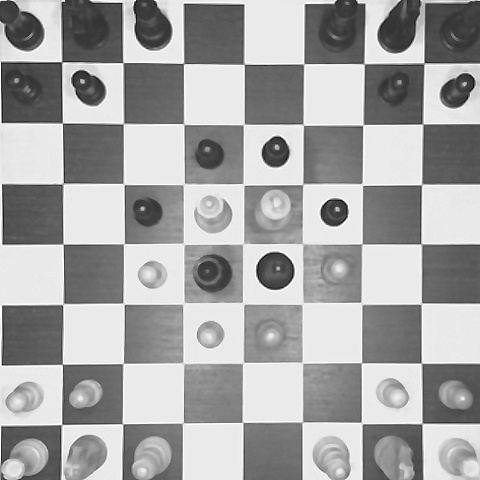
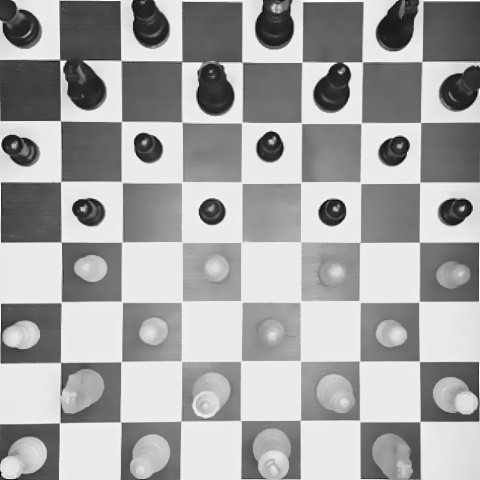
Dernier test concluant

Changed region(s): [[0.0, 0.0, 1.0, 1.0]]

diff --git a/vision/ChessCamera.py b/vision/ChessCamera.py
@@ -17,14 +17,15 @@ class ChessCamera(object):
         if RUN_ON_PI:
             self.camera = PiCamera()
             self.camera.resolution = (640,480)
+            #self.camera.exposure_mode = 'auto'
             self.camera.iso = CAMERA_ISO
+            self.camera.exposure_compensation = CAMERA_COMP
             self.camera.brightness = CAMERA_BRIGHTNESS
-            #self.camera.exposure_compensation = CAMERA_COMP
-            time.sleep(2)
-            self.camera.exposure_mode = 'off'
+            time.sleep(1)
             g = self.camera.awb_gains
             self.camera.awb_mode = 'off'
             self.camera.awb_gains = g
+            self.camera.exposure_mode = 'off'
 
         self.IMAGE_PATH = image
 
@@ -152,12 +153,13 @@ class ChessCamera(object):
 
                     masked, masked_draw = self.mask(current_square.img, edged_square.img)
                     thres = cv2.cvtColor(masked, cv2.COLOR_BGR2GRAY)
+                    height, width = thres.shape
 
                     #masked_draw = self.adjust_gamma(masked, 1)
                     #masked_draw = self.adjust_gamma(masked_draw, 2)
 
-                    #thres = self.adjust_gamma(thres, 0.5)
-                    thres = cv2.GaussianBlur(thres, (17,17), 0)
+                    #thres = self.adjust_gamma(thres, 1.5)
+                    thres = cv2.GaussianBlur(thres, (13,13), 0)
                     _, thres = cv2.threshold(thres, THRESHOLD_BINARY, 255, cv2.THRESH_BINARY)
 
                     if DEBUG and MASK_DRAW:
@@ -165,10 +167,13 @@ class ChessCamera(object):
                     if DEBUG and not MASK_DRAW:
                         cv2.imwrite("output/squares/{}.jpg".format(current_square.position), thres)
 
-                    if cv2.countNonZero(thres) > THRESHOLD_COLOR :
-                        line.append("W")
-                    else:
+                    count_white = cv2.countNonZero(thres);
+                    count_black = height * width - count_white;
+
+                    if count_black > THRESHOLD_COLOR :
                         line.append("B")
+                    else:
+                        line.append("W")
                 else:
                     line.append(".")
             board.append(line)
@@ -184,11 +189,12 @@ class ChessCamera(object):
         #img = clahe.apply(img)
 
         #img = cv2.normalize(img, img, alpha=50, beta=200, norm_type=cv2.NORM_MINMAX)
-        img = cv2.bilateralFilter(img, CANNY_BLUR, 17, 17)
+        img = cv2.GaussianBlur(img, (CANNY_BLUR,CANNY_BLUR), 0)
+        #img = cv2.bilateralFilter(img, CANNY_BLUR, 17, 17)
         #img = clahe.apply(img)
         img = cv2.filter2D(img, -1, kernel_sharpen)
         #img = cv2.GaussianBlur(img, (CANNY_BLUR,CANNY_BLUR), 0)
-        #img = cv2.bilateralFilter(img, CANNY_BLUR, 13, 13)
+        #img = cv2.bilateralFilter(img, CANNY_BLUR, 17, 17)
 
         if DEBUG : cv2.imwrite("output/gray.jpg", img)
 
@@ -215,27 +221,45 @@ class ChessCamera(object):
                 max_perimetre = perimetre
                 max_contour = c
 
-        img = cv2.cvtColor(img, cv2.COLOR_GRAY2BGR)
+        img_bgr = cv2.cvtColor(img, cv2.COLOR_GRAY2BGR)
 
-        mask = np.zeros(edges.shape)
+        mask = np.zeros(edges.shape, dtype=np.uint8)
+        #mask = np.ones() * 255
         hull = cv2.convexHull(max_contour)
         cv2.fillConvexPoly(mask, hull, (255))
 
-        #-- Smooth mask, then blur it --------------------------------------------------------
+        img = cv2.cvtColor(img_bgr, cv2.COLOR_BGR2GRAY)
+        # load background (could be an image too)
+        bk = np.full(img.shape, 255, dtype=np.uint8)  # white bk
+        # get masked foreground
+        fg_masked = cv2.bitwise_and(img, img, mask=mask)
+        # get masked background, mask must be inverted
+        mask = cv2.bitwise_not(mask)
         mask = cv2.dilate(mask, None, iterations=MASK_DILATE_ITER)
         mask = cv2.erode(mask, None, iterations=MASK_ERODE_ITER)
         mask = cv2.GaussianBlur(mask, (MASK_BLUR, MASK_BLUR), 0)
-        mask_stack = np.dstack([mask]*3)  # Create 3-channel alpha mask
+        bk_masked = cv2.bitwise_and(bk, bk, mask=mask)
+        # combine masked foreground and masked background
+        masked = cv2.bitwise_or(fg_masked, bk_masked)
+
+        #-- Smooth mask, then blur it --------------------------------------------------------
+        #mask = cv2.dilate(mask, None, iterations=MASK_DILATE_ITER)
+        #mask = cv2.erode(mask, None, iterations=MASK_ERODE_ITER)
+        #mask = cv2.GaussianBlur(mask, (MASK_BLUR, MASK_BLUR), 0)
+        #mask_stack = np.dstack([mask]*3)  # Create 3-channel alpha mask
 
         #-- Blend masked img into MASK_COLOR background --------------------------------------
-        mask_stack  = mask_stack.astype('float32') / 255.0          # Use float matrices,
-        img         = img.astype('float32') / 255.0                 #  for easy blending
+        #mask_stack  = mask_stack.astype('float32') / 255.0          # Use float matrices,
+        #img         = img_bgr.copy().astype('float32') / 255.0                 #  for easy blending
 
-        masked = (mask_stack * img) + ((1-mask_stack) * MASK_COLOR) # Blend
-        masked = (masked * 255).astype('uint8')                     # Convert back to 8-bit
+        #masked = (mask_stack * img) + ((1-mask_stack) * MASK_COLOR) # Blend
+        #masked = (masked * 255).astype('uint8')                     # Convert back to 8-bit
 
+        masked = cv2.cvtColor(masked, cv2.COLOR_GRAY2BGR)
         if MASK_DRAW:
+
             masked_draw = cv2.drawContours(masked.copy(), [hull], 0, (0,255,0), 2, cv2.LINE_AA, maxLevel=1)
+
         else: masked_draw = None
 
         return masked, masked_draw

diff --git a/vision/constants.py b/vision/constants.py
@@ -1,21 +1,21 @@
-DEBUG = True
+DEBUG = False
 RUN_ON_PI = True
 
 # BOARD CONSTANTS
 SQUARE_SIZE = 60
 BOARD_SIZE = SQUARE_SIZE * 8
 
-CAMERA_ISO = 100
-CAMERA_COMP = 0
-CAMERA_BRIGHTNESS = 60
+CAMERA_ISO = 200
+CAMERA_COMP = 10
+CAMERA_BRIGHTNESS = 50
 
 # IMAGE PROCESS
 RESCALE_RATIO = 1.015
 
-CANNY_SIGMA = 0.33
-CANNY_LOWER = 20
-CANNY_UPPER = 100
-CANNY_BLUR = 5
+CANNY_SIGMA = 0.8
+CANNY_LOWER = 30
+CANNY_UPPER = 90
+CANNY_BLUR = 7
 CANNY_GAMMA = 1
 
 CLAHE_LIMIT = 1.0
@@ -24,7 +24,7 @@ CLAHE_GRID = 8
 EDGE_DILATE = 2
 EDGE_ERODE = 2
 
-MASK_DRAW = False
+MASK_DRAW = True
 MASK_BLUR = 9
 MASK_DILATE = 9
 MASK_DILATE_ITER = 1
@@ -32,5 +32,5 @@ MASK_ERODE_ITER = 4
 MASK_COLOR = (0,0,0)
 
 THRESHOLD_PRESENCE = 100
-THRESHOLD_COLOR = 100
+THRESHOLD_COLOR = 80
 THRESHOLD_BINARY = 100

diff --git a/vision/test.py b/vision/test.py
@@ -22,10 +22,11 @@ if __name__ == '__main__':
                 while True:
                     current_board = ChessCamera.current_board_processed()
                     printBoard(current_board)
-                    time.sleep(1)
+                    time.sleep(0.1)
             else:
                 current_board = ChessCamera.current_board_processed()
-                ChessCamera.camera.close()
                 printBoard(current_board)
+
+        #ChessCamera.camera.close()
     else:
         print("Usage: test <image> (options: -c calibration)")
